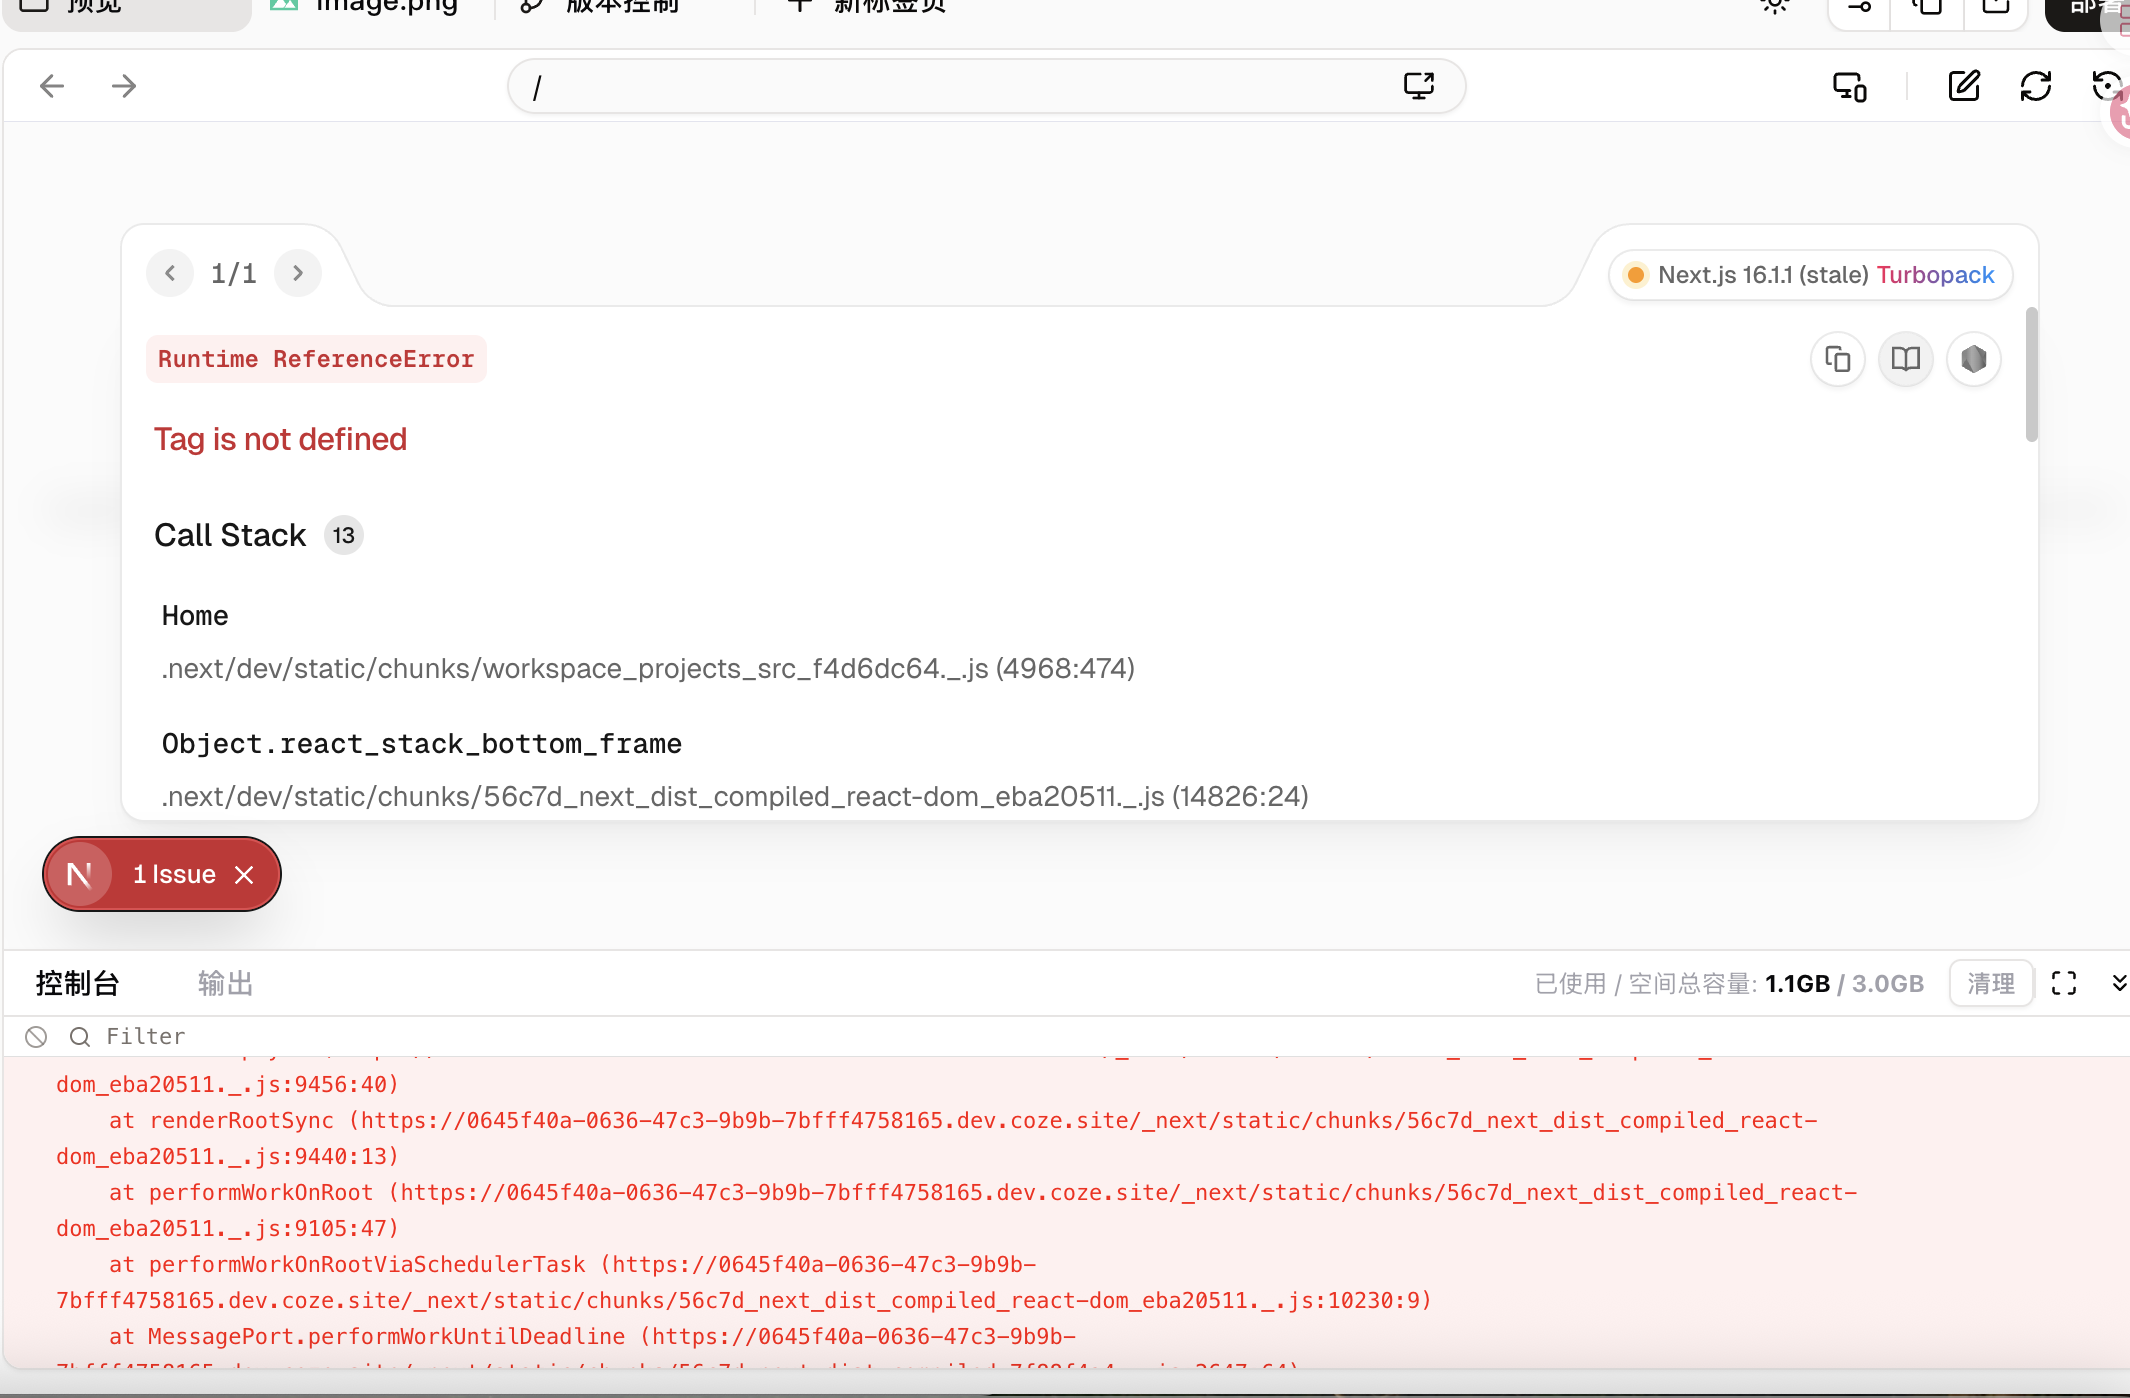
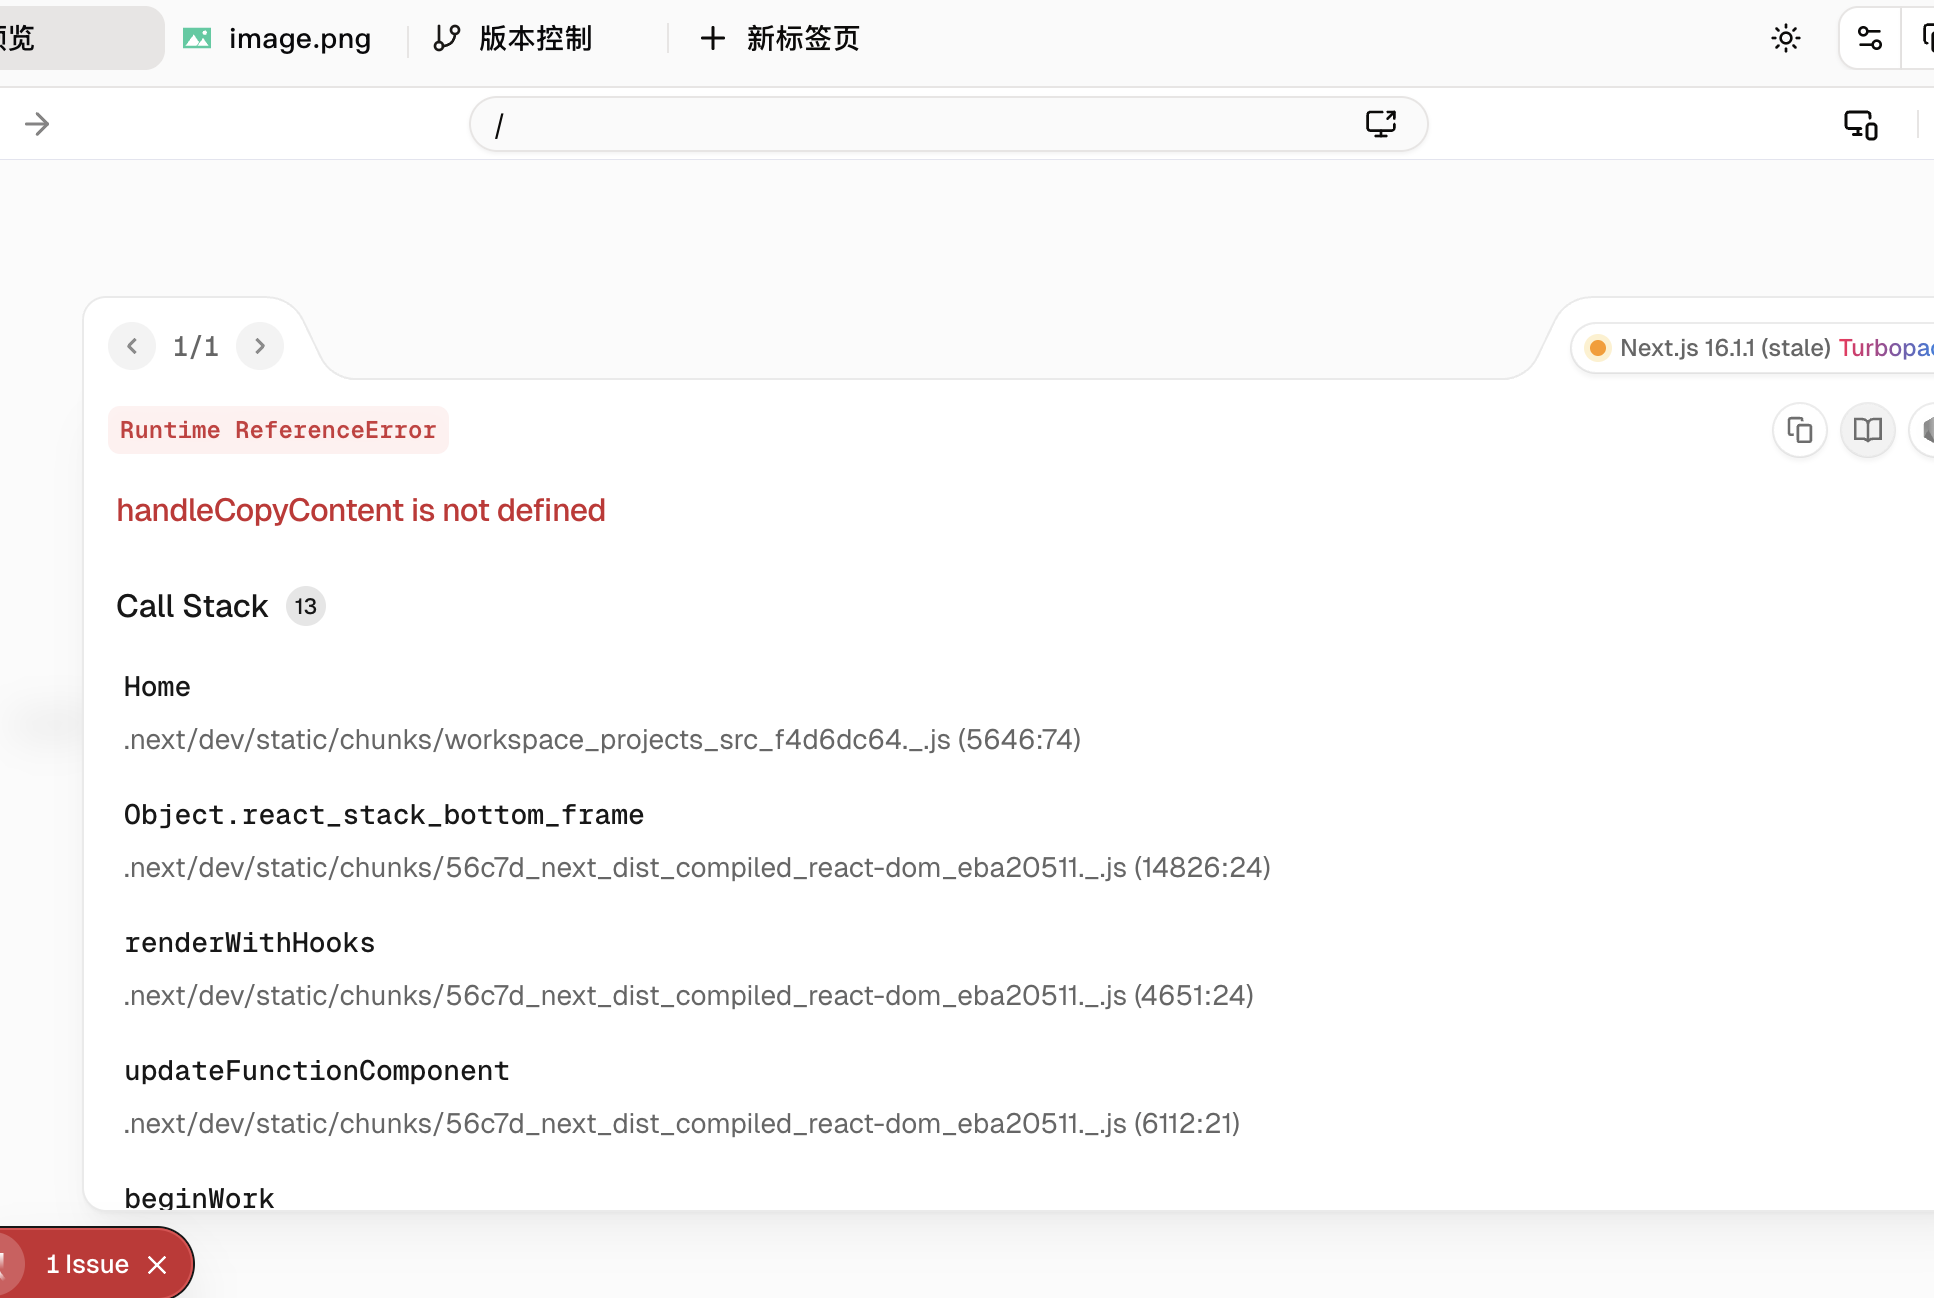
fix: 添加 handleCopyContent 函数

diff --git a/src/app/page.tsx b/src/app/page.tsx
@@ -562,6 +562,14 @@ export default function Home() {
     toast.success('已复制，可直接粘贴到小红书');
   };
 
+  const handleCopyContent = () => {
+    const selectedTitle = titles[selectedTitleIndex]?.title || generatedTitles[selectedTitleIndex ?? 0] || '';
+    const textToCopy = editableContent || content;
+    const text = `【标题】${selectedTitle}\n\n【正文】\n${textToCopy}`;
+    navigator.clipboard.writeText(text);
+    toast.success('内容已复制到剪贴板');
+  };
+
   const handleExport = () => {
     const selectedTitle = titles[selectedTitleIndex]?.title || '';
     let text = `【标题】${selectedTitle}\n\n【正文】\n${editableContent}\n\n【标签】\n${tags.map(t => '#' + t).join(' ')}\n\n`;
